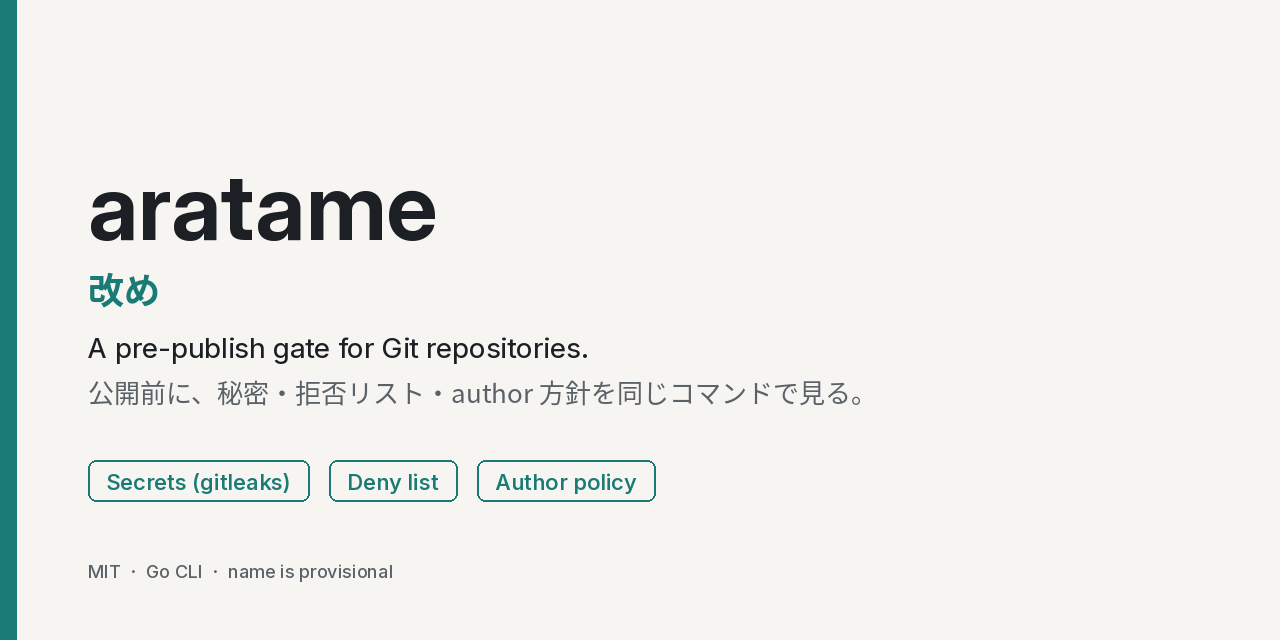
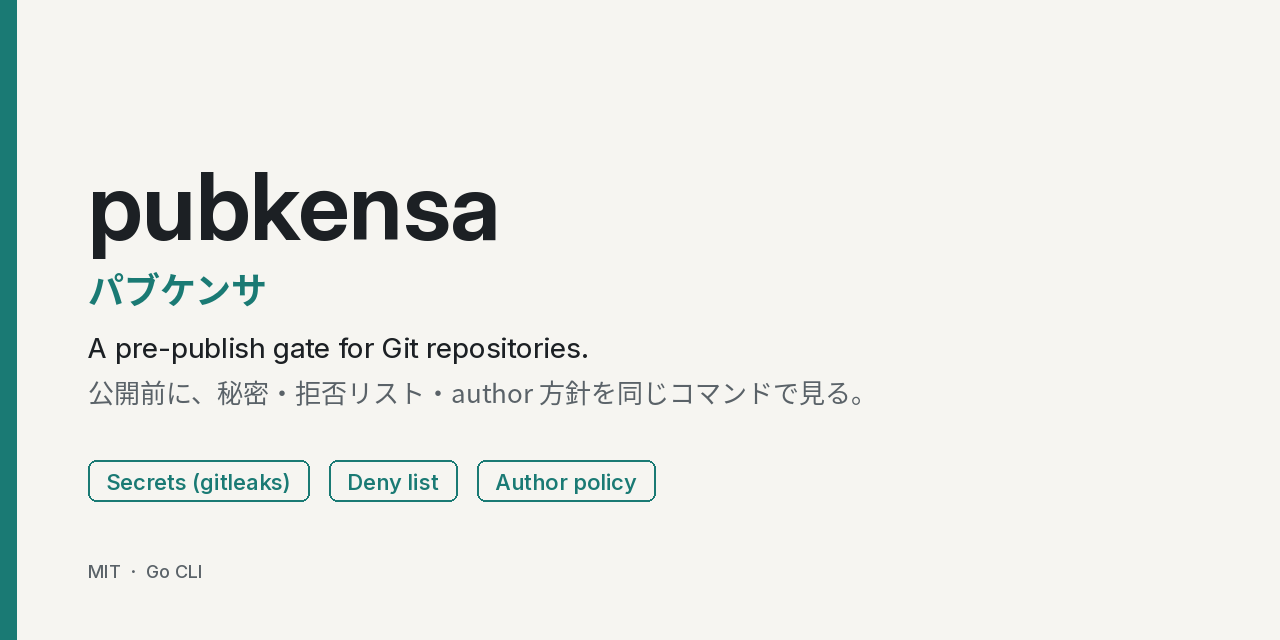
Rename aratame to pubkensa

Changed region(s): [[0.0625, 0.25, 0.4062, 0.5], [0.1875, 0.875, 0.3125, 0.9062]]

diff --git a/cmd/pubkensa/main.go b/cmd/pubkensa/main.go
@@ -6,7 +6,7 @@ import (
 	"fmt"
 	"os"
 
-	"github.com/nishimoto265/aratame/internal/scan"
+	"github.com/nishimoto265/pubkensa/internal/scan"
 )
 
 func main() {
@@ -14,14 +14,14 @@ func main() {
 }
 
 func run(args []string) int {
-	fs := flag.NewFlagSet("aratame", flag.ContinueOnError)
+	fs := flag.NewFlagSet("pubkensa", flag.ContinueOnError)
 	fs.SetOutput(os.Stderr)
-	config := fs.String("config", "", "path to aratame.yml (default: <repo>/aratame.yml if present)")
+	config := fs.String("config", "", "path to pubkensa.yml (default: <repo>/pubkensa.yml if present)")
 	jsonOut := fs.Bool("json", false, "write JSON to stdout")
 	since := fs.String("since", "", "limit author and history checks to commits after this revision")
 	skipGL := fs.Bool("skip-gitleaks", false, "skip the gitleaks invocation (for tests)")
 	fs.Usage = func() {
-		fmt.Fprintf(os.Stderr, "usage: aratame scan [path] [flags]\n")
+		fmt.Fprintf(os.Stderr, "usage: pubkensa scan [path] [flags]\n")
 		fs.PrintDefaults()
 	}
 	if len(args) == 0 {
@@ -47,7 +47,7 @@ func run(args []string) int {
 		SkipGitleaks: *skipGL,
 	})
 	if err != nil {
-		fmt.Fprintf(os.Stderr, "aratame: %v\n", err)
+		fmt.Fprintf(os.Stderr, "pubkensa: %v\n", err)
 		return 2
 	}
 	human := scan.FormatHuman(res)
@@ -55,7 +55,7 @@ func run(args []string) int {
 		enc := json.NewEncoder(os.Stdout)
 		enc.SetIndent("", "  ")
 		if err := enc.Encode(res); err != nil {
-			fmt.Fprintf(os.Stderr, "aratame: %v\n", err)
+			fmt.Fprintf(os.Stderr, "pubkensa: %v\n", err)
 			return 2
 		}
 		fmt.Fprint(os.Stderr, human)

diff --git a/internal/scan/scan.go b/internal/scan/scan.go
@@ -5,8 +5,8 @@ import (
 	"os/exec"
 	"strings"
 
-	"github.com/nishimoto265/aratame/internal/config"
-	"github.com/nishimoto265/aratame/internal/gitleaks"
+	"github.com/nishimoto265/pubkensa/internal/config"
+	"github.com/nishimoto265/pubkensa/internal/gitleaks"
 )
 
 type Kind string
@@ -110,10 +110,10 @@ func Run(opts Options) (*Result, error) {
 
 func FormatHuman(r *Result) string {
 	if r.OK {
-		return fmt.Sprintf("aratame: no findings (%d commits, %d files)\n", r.Scanned.Commits, r.Scanned.Files)
+		return fmt.Sprintf("pubkensa: no findings (%d commits, %d files)\n", r.Scanned.Commits, r.Scanned.Files)
 	}
 	var b strings.Builder
-	fmt.Fprintf(&b, "aratame: %d finding(s)\n", len(r.Findings))
+	fmt.Fprintf(&b, "pubkensa: %d finding(s)\n", len(r.Findings))
 	for _, f := range r.Findings {
 		loc := f.Path
 		if f.Line > 0 {

diff --git a/docs/make_social_preview.py b/docs/make_social_preview.py
@@ -34,11 +34,11 @@ def main():
     d.rectangle((0, 0, 16, H), fill=TEAL)
 
     title = inter(92, weight=650, opsz=32)
-    d.text((88, 150), "aratame", font=title, fill=INK)
+    d.text((88, 150), "pubkensa", font=title, fill=INK)
 
     # Small Japanese name, not a heavy seal
     jp = cjk(CJK_BOLD, 36)
-    d.text((88, 262), "改め", font=jp, fill=TEAL)
+    d.text((88, 262), "パブケンサ", font=jp, fill=TEAL)
 
     tag_en = inter(28, weight=450, opsz=18)
     tag_jp = cjk(CJK_REG, 26)
@@ -59,7 +59,7 @@ def main():
         x += tw + pad_x * 2 + 20
 
     foot = inter(18, weight=500, opsz=14)
-    d.text((88, 560), "MIT  ·  Go CLI  ·  name is provisional", font=foot, fill=MUTED)
+    d.text((88, 560), "MIT  ·  Go CLI", font=foot, fill=MUTED)
 
     img.save(OUT, "PNG")
     print("wrote", OUT, img.size)

diff --git a/internal/scan/scan_test.go b/internal/scan/scan_test.go
@@ -6,7 +6,7 @@ import (
 	"path/filepath"
 	"testing"
 
-	"github.com/nishimoto265/aratame/internal/config"
+	"github.com/nishimoto265/pubkensa/internal/config"
 )
 
 func TestCleanRepo(t *testing.T) {
@@ -98,7 +98,7 @@ func cfgNormalize(c *config.Config) error {
 func loadInto(c *config.Config) error {
 	// Re-parse through yaml is heavy; just rely on Default already having allow list.
 	// Deny patterns need ResolvedPatterns; literals do not.
-	tmp, err := os.CreateTemp("", "aratame-cfg-*.yml")
+	tmp, err := os.CreateTemp("", "pubkensa-cfg-*.yml")
 	if err != nil {
 		return err
 	}

diff --git a/internal/gitleaks/run.go b/internal/gitleaks/run.go
@@ -30,7 +30,7 @@ func Run(repoDir, command string, extra []string) (Report, error) {
 	if _, err := exec.LookPath(command); err != nil {
 		return Report{}, fmt.Errorf("gitleaks not found in PATH (%s): %w", command, err)
 	}
-	tmp, err := os.MkdirTemp("", "aratame-gitleaks-")
+	tmp, err := os.MkdirTemp("", "pubkensa-gitleaks-")
 	if err != nil {
 		return Report{}, err
 	}

diff --git a/internal/config/config.go b/internal/config/config.go
@@ -60,7 +60,7 @@ func Find(repoDir, explicit string) (string, error) {
 	if explicit != "" {
 		return explicit, nil
 	}
-	for _, name := range []string{"aratame.yml", "aratame.yaml"} {
+	for _, name := range []string{"pubkensa.yml", "pubkensa.yaml"} {
 		p := filepath.Join(repoDir, name)
 		if _, err := os.Stat(p); err == nil {
 			return p, nil

diff --git a/internal/scan/deny.go b/internal/scan/deny.go
@@ -11,7 +11,7 @@ import (
 	"strings"
 	"unicode/utf8"
 
-	"github.com/nishimoto265/aratame/internal/config"
+	"github.com/nishimoto265/pubkensa/internal/config"
 )
 
 type matcher struct {

diff --git a/README.md b/README.md
@@ -1,4 +1,4 @@
-# aratame（改め）
+# pubkensa（パブケンサ）
 
 A small pre-publish gate for Git repositories. One command runs three checks:
 
@@ -7,8 +7,6 @@ A small pre-publish gate for Git repositories. One command runs three checks:
 3. **Author / committer policy** — emails must match an allow list (default: GitHub `users.noreply.github.com` addresses).
 
 It does not rewrite history, fix files, or change repository settings.
-
-The name is provisional. A trademark check should be done before treating it as final.
 
 This repository is not public yet. The install commands below will work only after a GitHub repository exists.
 
@@ -19,27 +17,27 @@ This repository is not public yet. The install commands below will work only aft
 - Go 1.23 or later to build
 
 ```bash
-go build -o bin/aratame ./cmd/aratame
+go build -o bin/pubkensa ./cmd/pubkensa
 ```
 
 After a public release, a binary from the Releases page, or:
 
 ```bash
-go install github.com/nishimoto265/aratame/cmd/aratame@latest
+go install github.com/nishimoto265/pubkensa/cmd/pubkensa@latest
 ```
 
 ## Usage
 
 ```bash
-aratame scan [path]
-  --config path     default: <repo>/aratame.yml if that file exists
+pubkensa scan [path]
+  --config path     default: <repo>/pubkensa.yml if that file exists
   --json            JSON on stdout, human text on stderr
   --since <rev>     limit author and history checks to commits after this revision
 ```
 
 Exit codes: `0` no findings, `1` findings, `2` tool error (bad config, not a git repo, gitleaks missing).
 
-Copy `aratame.yml.example` to `aratame.yml` and add your own deny list. Do not commit real internal hostnames or personal addresses in the example file. The example deny word appears in the example file itself; using that file as `--config` against this repository will report it.
+Copy `pubkensa.yml.example` to `pubkensa.yml` and add your own deny list. Do not commit real internal hostnames or personal addresses in the example file. The example deny word appears in the example file itself; using that file as `--config` against this repository will report it.
 
 A copy-paste GitHub Actions workflow is in `examples/github-workflow.yml`. Until a release exists, build from source (or drop a prebuilt binary on `PATH`) instead of `go install @latest`.
 
@@ -61,8 +59,6 @@ Git リポジトリ向けの、小さな公開前ゲートです。次の3つを
 
 履歴の書き換え、ファイルの修正、リポジトリ設定の変更はしません。
 
-名前は仮称です。正式に使う前に商標の確認が必要です。
-
 このリポジトリはまだ公開していません。下記のインストールは、公開後に使えるようになります。
 
 ### 必要条件
@@ -72,27 +68,27 @@ Git リポジトリ向けの、小さな公開前ゲートです。次の3つを
 - ビルドする場合は Go 1.23 以降
 
 ```bash
-go build -o bin/aratame ./cmd/aratame
+go build -o bin/pubkensa ./cmd/pubkensa
 ```
 
 公開後は Releases のバイナリか、次でも入れられます。
 
 ```bash
-go install github.com/nishimoto265/aratame/cmd/aratame@latest
+go install github.com/nishimoto265/pubkensa/cmd/pubkensa@latest
 ```
 
 ### 使い方
 
 ```bash
-aratame scan [path]
-  --config path     既定は、リポジトリに aratame.yml があればそれ
+pubkensa scan [path]
+  --config path     既定は、リポジトリに pubkensa.yml があればそれ
   --json            JSON を標準出力、人間向けの文は標準エラー
   --since <rev>     このリビジョンより後のコミットだけを author と履歴の対象にする
 ```
 
 終了コードは `0` が指摘なし、`1` が指摘あり、`2` が設定誤り・Git リポジトリではない・gitleaks がない、などです。
 
-`aratame.yml.example` を `aratame.yml` にコピーし、自分の拒否リストを書いてください。実在のホスト名や個人のメールを example に書かないでください。example の拒否語は example ファイル自身に出てくるので、このリポジトリをその設定でスキャンするとヒットします。
+`pubkensa.yml.example` を `pubkensa.yml` にコピーし、自分の拒否リストを書いてください。実在のホスト名や個人のメールを example に書かないでください。example の拒否語は example ファイル自身に出てくるので、このリポジトリをその設定でスキャンするとヒットします。
 
 GitHub Actions の控えは `examples/github-workflow.yml` にあります。リリースが出るまでは、ソースからビルドするか、バイナリを PATH に置いてください。
 
